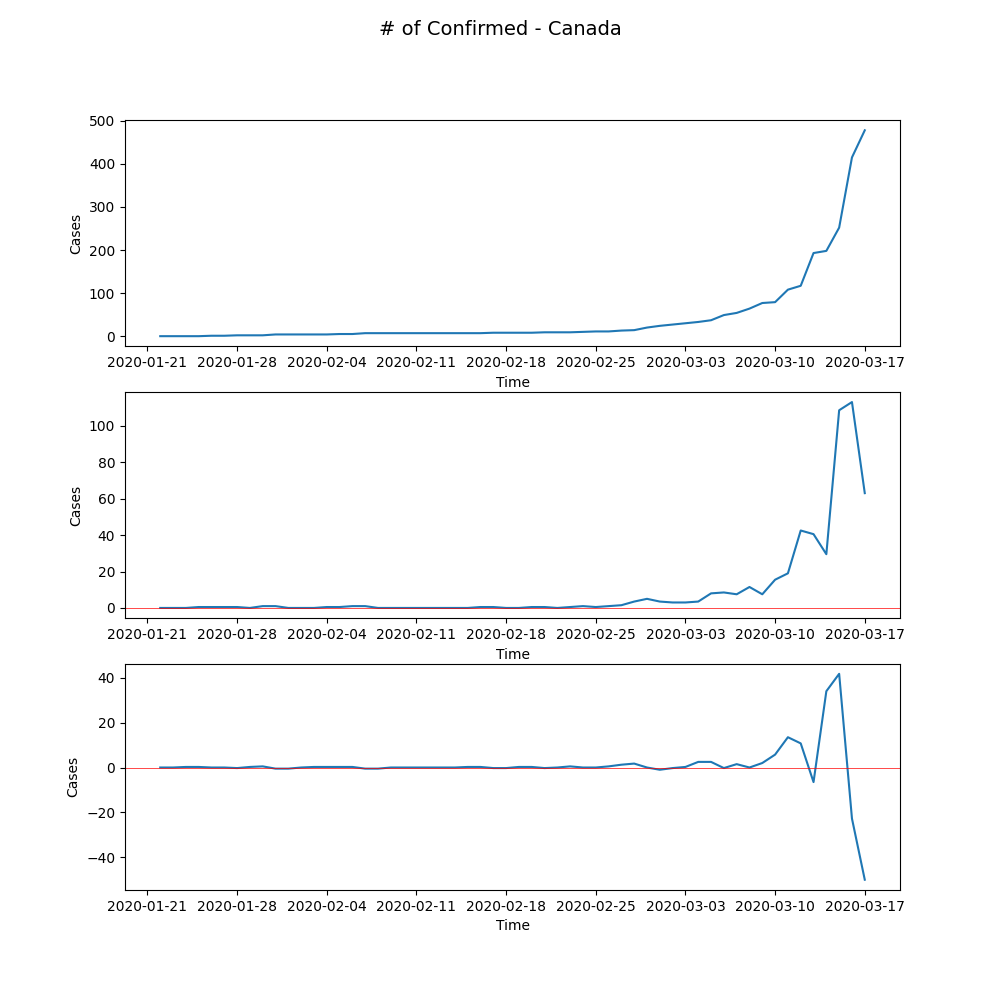
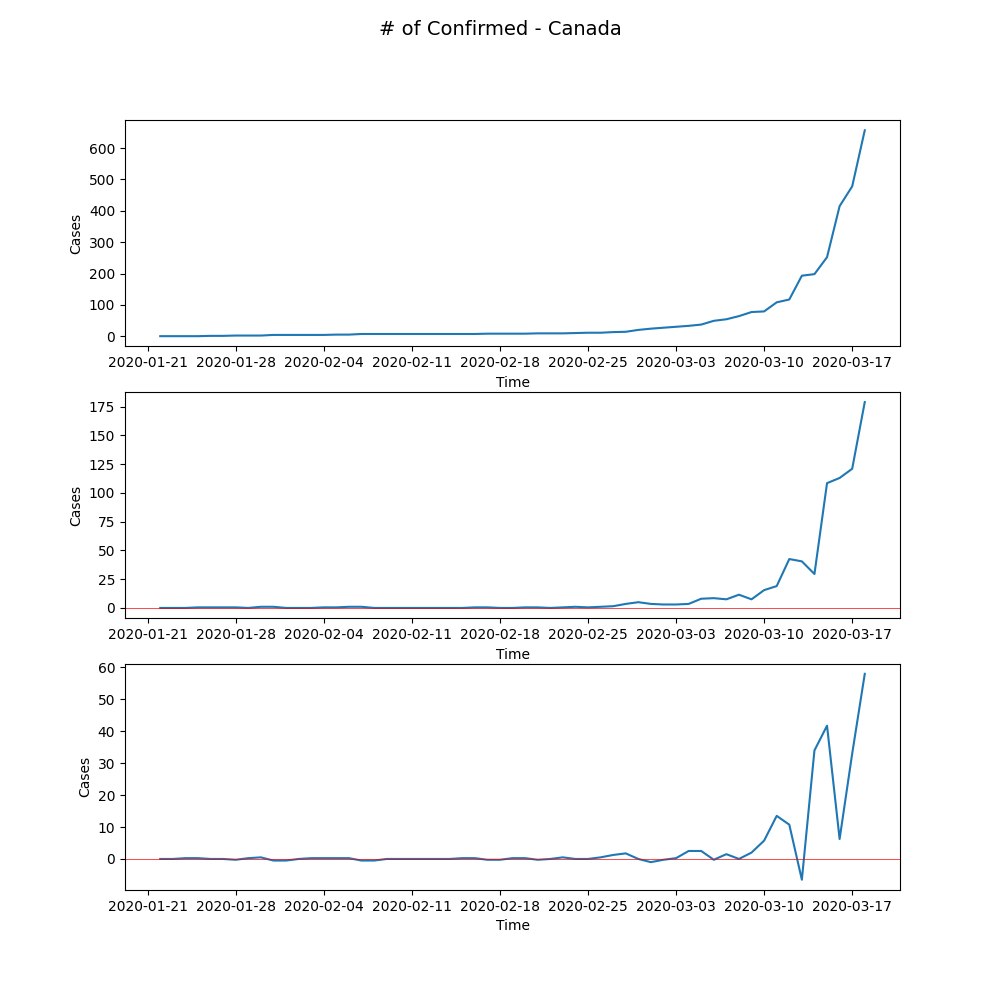
Add main loop and new data

diff --git a/main.py b/main.py
@@ -18,6 +18,7 @@ class CoronaScraper():
     self.time_git_url = f"https://raw.githubusercontent.com/{self.user}/{self.repo}/master/{self.time_path}"
 
     self.reports = {}
+    self.valid_countries = []
 
   def download_reports(self):
     """
@@ -45,6 +46,8 @@ class CoronaScraper():
           tmp.write(req_str)
           df = pd.read_csv(path, sep=",")
           reports[report_type] = df
+          self.valid_countries += df["Country/Region"].tolist()
+          self.valid_countries = list(set(self.valid_countries))
       finally:
         os.remove(path)
 
@@ -61,15 +64,33 @@ class CoronaScraper():
 def main():
   # scrape the timeseries report for COVID-19
   scraper = CoronaScraper()
-  reports = CoronaScraper.download_reports().get_reports()
+  reports = scraper.download_reports().get_reports()
 
-  # init generator for a country
-  gen = DataGenerator(reports, "Canada")
+  # initialize a data generator
+  generator = DataGenerator(reports)
+
+  # get all the valid countries to choose from
+  countries = scraper.valid_countries
+
+  while True:
+    country = input("Enter a country to track (type quit to exit): \n")
+
+    if country == "quit":
+      break
+
+    if country == "":
+      continue
+
+    if not generator.set_country(country, valid_countries=countries):
+      print("Invalid country selected")
+      print(f"Choose from the following: {str(countries)}\n")
+      continue
+
+    for case in ["Confirmed", "Deaths", "Recovered"]:
+      X, y = generator.generate(case)
+      visualize(X, y, country, case)
+
+  print("Shutting down...")
 
 if __name__ == "__main__":
-  reports = CoronaScraper().download_reports().get_reports()
-  can_gen = DataGenerator(reports, "Canada")
-
-  for case in ["Confirmed", "Deaths", "Recovered"]:
-    X, y = can_gen.generate(case)
-    visualize(X, y, can_gen.country, case)
+  main()

diff --git a/generator.py b/generator.py
@@ -1,9 +1,9 @@
-from helper import valid_countries
+import numpy as np
 
 class DataGenerator:
-  def __init__(self, reports, country):
+  def __init__(self, reports):
     self.reports = reports
-    self.country = country
+    self.country = None
 
     self._clean_dfs()
 
@@ -12,21 +12,25 @@ class DataGenerator:
       df = raw_df.drop(['Lat', 'Long'], axis=1).set_index(["Country/Region", "Province/State"])
       self.reports[report_type] = df
 
-  def set_country(self, country):
-    countries = valid_countries(self.reports)
-    if country not in countries:
-      print("Country selected is not valid!")
-      print(f"Choose from the following: {str(countries)}")
-      return
+  def set_country(self, country, valid_countries):
+    if country not in valid_countries:
+      return False
 
     self.country = country
+    return True
+
+  def get_country(self):
+    if not self.country:
+      print("No country has been set, run 'generator.set_country(<your country>)' to do so!")
+      return
+    return self.country
 
   def X(self, report_type: str) -> list:
     if report_type not in self.reports:
       raise ValueError("Invalid report type given!")
 
     df = self.reports[report_type]
-    return df.columns.values.tolist()
+    return df.columns.values
 
   def y(self, report_type: str) -> list:
     if report_type not in self.reports:
@@ -36,7 +40,7 @@ class DataGenerator:
 
     # get only the country values and sum up all provinces
     np_arr = df.xs((self.country)).values
-    return np_arr.sum(axis=0).tolist()
+    return np.nan_to_num(np_arr.sum(axis=0))
 
   def generate(self, report_type):
     return self.X(report_type), self.y(report_type)

diff --git a/helper.py b/helper.py
@@ -2,9 +2,3 @@ import datetime
 
 def _convert_to_dates(dates: str):
   return [datetime.datetime.strptime(d, "%m/%d/%y").date() for d in dates]
-
-def valid_countries(reports):
-  countries = []
-  for _, df in reports.items():
-    countries += df["Country/Region"].tolist()
-  return set(countries)
